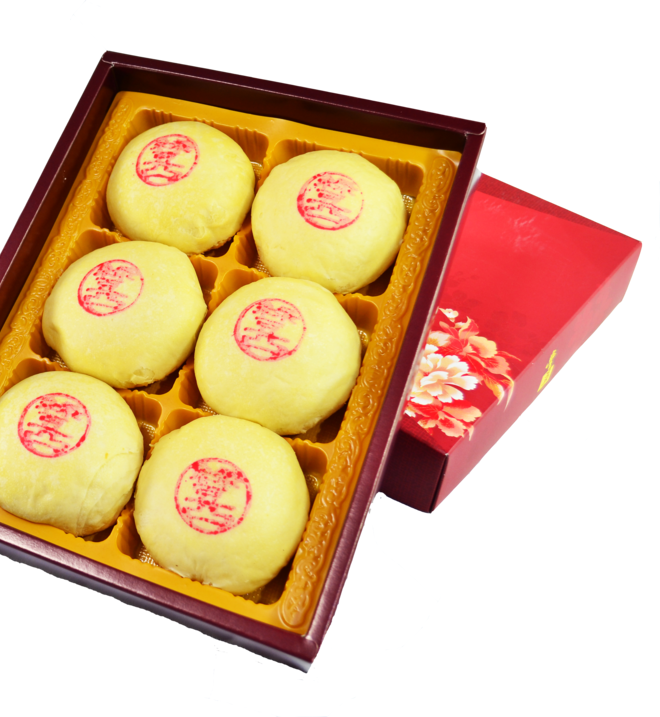
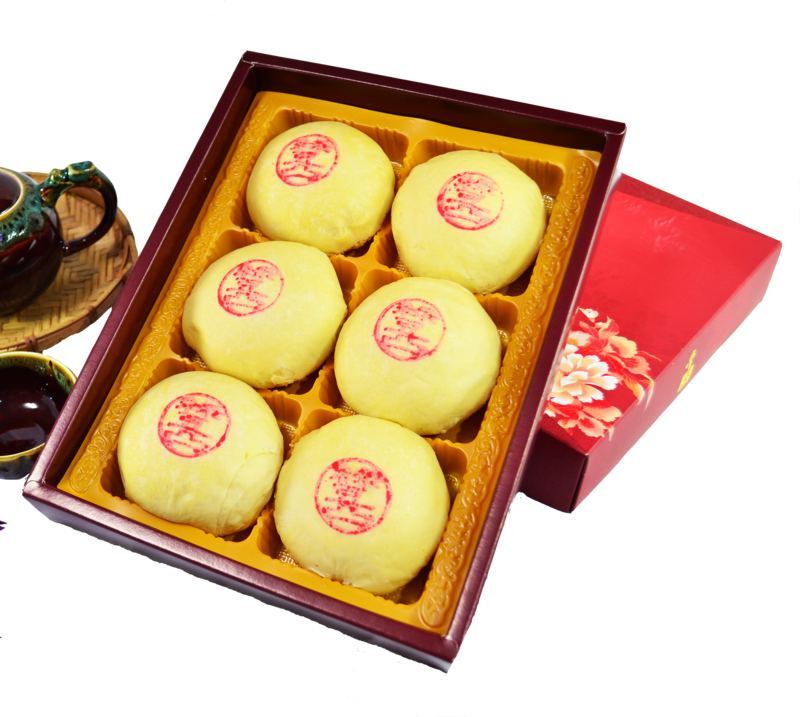
fix: 真正修正禮盒左邊被切到的問題（之前修圖時二次裁切切過頭了）

diff --git a/data.js b/data.js
@@ -6,7 +6,7 @@
 
 // 每次更新 assets/img 裡的照片，把這個數字 +1，
 // 網頁就會強迫瀏覽器重新抓最新的圖，不會一直卡舊的快取版本。
-const ASSET_VERSION = 2;
+const ASSET_VERSION = 3;
 function imgV(path) {
   return path ? `${path}?v=${ASSET_VERSION}` : path;
 }
